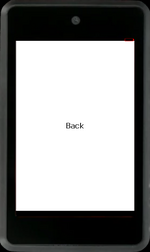
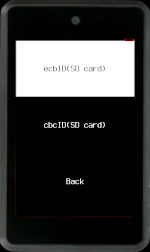
filling docs

diff --git a/docs/getting-started/navigating-the-main-menu.en.md b/docs/getting-started/navigating-the-main-menu.en.md
@@ -9,7 +9,53 @@ Below is a breakdown of the options:
 <img src="../../img/maixpy_m5stickv/mnemonic-24-word-1-125.png" align="right">
 <img src="../../img/maixpy_amigo_tft/mnemonic-24-word-1-150.png" align="right">
 
-This option allows you to view your mnemonic words and, if you have a thermal printer attached, print out the mnemonic as a QR code. The data in this code will be a plaintext space-separated string of the (English) words. This QR code can then be read by Krux for faster loads in the future.
+This will open a new submenu with several options to backup your mnemonic.
+
+#### Words
+
+Display the mnemonic words as text so you can write them down.
+
+#### Plaintext QR
+
+Generate a QR containing the mnemonic words as regular text, where words are separated by spaces.
+
+#### Compact SeedQR
+
+A QR code is created from a binary representation of mnemonic words. Format created by SeedSigner
+
+#### SeedQR
+
+Words are converted to their BIP39 numeric indexes, those numbers are then concatenated as a string and finally converted to a QR code. Format created by SeedSigner
+
+#### Stackbit 1248
+
+Words are converted to their BIP39 numeric indexes, then each of the four digits is converted to a sum of 1,2,4 or 8.
+
+#### Tiny Seed
+
+This metal backup format represent BIP39 mnemonic word numbers index on its binary form on a metal plate, where 1's are marked(punched) and 0's are left intact
+
+<br><br><br><br>
+
+### Encrypt Mnemonic
+
+Here you can backup your mnemonic by storing them encrypted on a device's flash, on a SD card, or QR code format.
+The encryption method and parameters can be modified in settings.
+Use flash or SD card storage for convenience but never as your only backup method, there are many ways flash storage and the information it contains can degrade and be permanently damaged.
+
+On all below methods you'll be prompted to enter a encryption key, which can be in text or QR code format. You can also define a custom ID to help you manage your mnemonics. In case a custom key is not set, the current fingerprint will be used as ID.
+
+#### Store on Flash
+
+The encrypted mnemonic will be stored on device's flash memory, and will be available to be decrypted and loaded via "Load Mnemonic"->"From Storage".
+
+#### Store on SD Card
+
+The encrypted mnemonic will be stored on a SD card, if available, and will be available to be decrypted and loaded via "Load Mnemonic"->"From Storage".
+
+#### Encrypted QR Code
+
+The encrypted mnemonic will be converted to a QR code. When you scan this QR code via "Load Mnemonic"->"Via Camera"->"QR Code", you'll be prompted to enter decryption key to load the mnemonic.
 
 <br><br><br><br>
 
@@ -25,7 +71,7 @@ If a thermal printer is attached, you can print both QR codes.
 
 <br>
 
-### Wallet
+### Wallet Descriptor
 <img src="../../img/maixpy_m5stickv/wallet-wsh-load-prompt-125.png" align="right">
 <img src="../../img/maixpy_amigo_tft/wallet-wsh-load-prompt-150.png" align="right">
 
@@ -37,7 +83,9 @@ Note that you currently can't change the wallet once one has been loaded. To do 
 
 <br>
 
-### Scan Address
+### Address
+
+#### Scan Address
 <img src="../../img/maixpy_m5stickv/scan-address-scanned-address-125.png" align="right">
 <img src="../../img/maixpy_amigo_tft/scan-address-scanned-address-150.png" align="right">
 
@@ -50,6 +98,14 @@ After proceeding through this screen, you will be asked if you want to check tha
 This option exists as an extra security check to verify that the address your wallet coordinator has generated is authentic and belongs to your wallet.
 
 <br>
+
+#### Receive Addresses
+
+List your wallet's receive addresses
+
+#### Change Addresses
+
+List your wallet's change addresses
 
 ### Sign
 

diff --git a/docs/getting-started/generating-a-mnemonic.en.md b/docs/getting-started/generating-a-mnemonic.en.md
@@ -1,4 +1,4 @@
-Krux has support for creating 12 and 24-word mnemonic seed phrases. Since true entropy is difficult to produce, especially with an embedded device, Krux outsources entropy generation to the user.
+Krux has support for creating 12 and 24-word mnemonic seed phrases. Since true entropy is difficult to produce, especially with an embedded device, we recommend to outsources entropy generation using dice rolls, but it is also possible to use camera as source of entropy to quickly create a mnemonic.
 At the start screen, once you select `New Mnemonic`, you will be taken to a second menu where you can choose to create a mnemonic via camera, via rolls of a D6 (standard six-sided die) or D20 (20-sided die).
 
 <img src="../../img/maixpy_m5stickv/new-mnemonic-options-125.png">
@@ -9,7 +9,7 @@ At the start screen, once you select `New Mnemonic`, you will be taken to a seco
 <img src="../../img/maixpy_m5stickv/new-mnemonic-via-snapshot-sha256-125.png" align="right">
 <img src="../../img/maixpy_amigo_tft/new-mnemonic-via-snapshot-sha256-150.png" align="right">
 
- Choose between 12 or 24 words than take a random picture and Krux will generate a mnemonic from the hash of the image bytes.
+ Choose between 12 or 24 words, then take a random picture and Krux will generate a mnemonic from the hash of the image bytes.
 
 <br><br><br><br>
 <br><br><br><br>
@@ -41,7 +41,7 @@ Since a D20 has more possible outcomes, the entropy is increased per roll to 4.3
 <img src="../../img/maixpy_m5stickv/new-mnemonic-via-d6-roll-string-125.png" align="right">
 <img src="../../img/maixpy_amigo_tft/new-mnemonic-via-d6-roll-string-150.png" align="right">
 
-Krux keeps track of every roll you enter and displays the cumulative string of outcomes after each roll. 
+For dice rolls, Krux keeps track of every roll you enter and displays the cumulative string of outcomes after each roll. 
 
 <br><br><br><br>
 <br><br><br><br>
@@ -50,6 +50,8 @@ Krux keeps track of every roll you enter and displays the cumulative string of o
 <img src="../../img/maixpy_amigo_tft/new-mnemonic-via-d6-roll-sha256-150.png" align="right">
 
 When you have entered your final roll, Krux will hash this string using SHA256 and output the resulting hash to the screen so that you can verify it for yourself.
+
+In the case a camera snapshot is used as source, the image bytes, which contain each pixel color information, will be hashed just like it is done with the dice rolls string.
 
 Krux then takes this hash, runs [`unhexlify`](https://docs.python.org/3/library/binascii.html#binascii.unhexlify) on it to encode it as bytes, and deterministically converts it into a mnemonic according to the [BIP-39 Reference Implementation](https://github.com/trezor/python-mnemonic/blob/6b7ebdb3624bbcae1a7b3c5485427a5587795120/src/mnemonic/mnemonic.py#L189-L207).
 

diff --git a/docs/getting-started/loading-a-mnemonic.en.md b/docs/getting-started/loading-a-mnemonic.en.md
@@ -25,7 +25,7 @@ You can also use [an offline QR code generator for this](https://iancoleman.io/b
 #### Tiny Seed
 
 [Tiny Seed](https://tinyseed.io/) is a compact metal plate mnemonic backup method.
-Krux devices have machine vision capabilities that allow users to use the camera to scan these metal plates and instantly load mnemonics engraved on them. To properly scan them place the Tiny Seed over a black background and paint the punched bits black to increase contrast.
+Krux devices have machine vision capabilities that allow users to scan these metal plates and instantly load mnemonics engraved on them. To properly scan them place the Tiny Seed over a black background and paint the punched bits black to increase contrast.
 
 <br>
 
